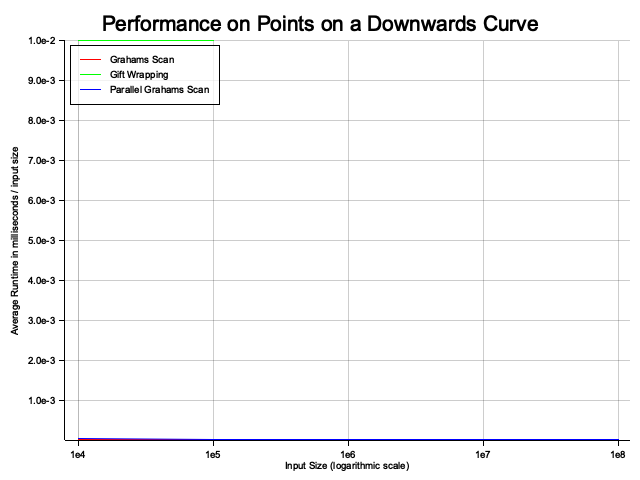
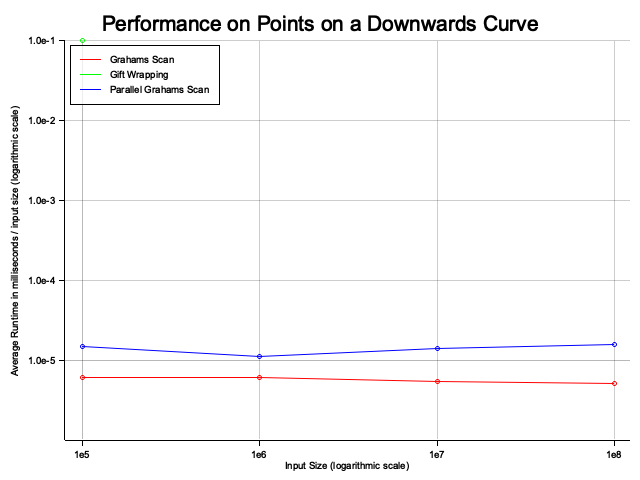
update all plots

diff --git a/project_2/src/main.rs b/project_2/src/main.rs
@@ -2,7 +2,7 @@ use crate::gift_wrapping::gift_wrapping_upper_hull;
 use crate::grahams_scan::grahams_scan;
 use crate::grahams_scan_parallel::grahams_scan_parallel;
 use crate::input_generation::{Curve, InverseCurve, Line, UniformCircle, UniformSquare};
-use crate::plotting::{plot, plot_upper_hull, plot_upper_hull_points};
+use crate::plotting::{plot, plot_log, plot_upper_hull, plot_upper_hull_points};
 use crate::types::{ConvexHullAlgorithm, Experiment, InputFunction, Plot, Point};
 use std::time::Instant;
 
@@ -17,7 +17,7 @@ mod utils;
 fn main() {
     let input_sizes: Vec<i64> = (5..=8).map(|exp| 10i64.pow(exp)).collect();
 
-    //different_inputs_runtime(input_sizes.clone());
+    different_inputs_runtime(input_sizes.clone());
     //upper_hull_size(input_sizes.clone());
     parallel_runtime(input_sizes);
 
@@ -34,7 +34,7 @@ fn different_inputs_runtime(input_sizes: Vec<i64>) {
         (Line::get_input, "Line".to_string()),
     ];
     
-    let y_range = 5e-7..7e-5;
+    let y_range = 5e-7..4e-5;
 
     let grahams_all_inputs = Plot {
         title: "Grahams Scan on different Inputs".to_string(),
@@ -53,7 +53,7 @@ fn different_inputs_runtime(input_sizes: Vec<i64>) {
         input_sizes: input_sizes.clone(),
         algorithm: gift_wrapping_upper_hull,
         args: (None, None),
-        y_range: 5e-7..1e-2,
+        y_range: 1e-6..1e-1,
     };
 
     let grahams_parallel_all_inputs = Plot {
@@ -134,7 +134,7 @@ fn different_inputs_runtime(input_sizes: Vec<i64>) {
         input_sizes: input_sizes.clone(),
         algorithm: grahams_scan_parallel, // not needed
         args: (None, None),
-        y_range: 2e-5..7e-5,
+        y_range: 1e-6..1e-1,
     };
     let uniform_circle_plot = Plot {
         title: "Performance on Uniformly Distributed Points in a Circle".to_string(),
@@ -156,7 +156,7 @@ fn different_inputs_runtime(input_sizes: Vec<i64>) {
         input_sizes: input_sizes.clone(),
         algorithm: grahams_scan_parallel, // not needed
         args: (None, None),
-        y_range: 2.5e-5..1e-3,
+        y_range: 1e-6..1e-1,
     };
     let curve_plot = Plot {
         title: "Performance on Points on a Downwards Curve".to_string(),
@@ -178,7 +178,7 @@ fn different_inputs_runtime(input_sizes: Vec<i64>) {
         input_sizes: input_sizes.clone(),
         algorithm: grahams_scan_parallel, // not needed
         args: (None, None),
-        y_range: 5e-6..1e-2,
+        y_range: 1e-6..1e-1,
     };
     let upwards_curve_plot = Plot {
         title: "Performance on Points on an Upwards Curve".to_string(),
@@ -200,7 +200,7 @@ fn different_inputs_runtime(input_sizes: Vec<i64>) {
         input_sizes: input_sizes.clone(),
         algorithm: grahams_scan_parallel, // not needed
         args: (None, None),
-        y_range: 5e-7..3.5e-5,
+        y_range: 5e-7..2e-5,
     };
     let line_plot = Plot {
         title: "Performance on Points on a Line".to_string(),
@@ -222,18 +222,22 @@ fn different_inputs_runtime(input_sizes: Vec<i64>) {
         input_sizes: input_sizes.clone(),
         algorithm: grahams_scan_parallel, // not needed
         args: (None, None),
-        y_range: 5e-7..3.5e-5,
+        y_range: 5e-7..2e-5,
     };
 
     // input_plots are grouped by solver
-    for solver_plot in input_plots.iter() {
-        plot(solver_plot.clone());
-    }
-
+    //for solver_plot in input_plots.iter() {
+    //    plot(solver_plot.clone());
+    //}
+    plot(input_plots[0].clone());
+    plot_log(input_plots[1].clone());
+    plot(input_plots[2].clone());
+    
+    
     // plot grouped by input generation
-    plot(uniform_square_plot);
-    plot(uniform_circle_plot);
-    plot(curve_plot);
+    plot_log(uniform_square_plot);
+    plot_log(uniform_circle_plot);
+    plot_log(curve_plot);
     plot(upwards_curve_plot);
     plot(line_plot);
 }

diff --git a/project_2/src/plotting.rs b/project_2/src/plotting.rs
@@ -3,6 +3,63 @@ use plotters::coord::types::{RangedCoordi32, RangedCoordi64};
 use plotters::prelude::*;
 use plotters::style::full_palette::ORANGE;
 
+pub fn plot_log(plot: Plot) {
+    let colors = [&RED, &GREEN, &BLUE, &ORANGE, &BLACK];
+
+    let x_first = (plot.input_sizes[0] as f64 * 0.8) as i64;
+    let x_last = (plot.input_sizes[plot.input_sizes.len() - 1] as f64 * 1.2) as i64;
+
+    let root = BitMapBackend::new(plot.path.as_str(), (640, 480)).into_drawing_area();
+    let _ = root.fill(&WHITE);
+    let root = root.margin(10, 10, 10, 10);
+
+    let mut chart = ChartBuilder::on(&root)
+        .caption(plot.title, ("sans-serif", 26).into_font())
+        .x_label_area_size(30)
+        .y_label_area_size(55)
+        .build_cartesian_2d((x_first..x_last).log_scale(), plot.y_range.log_scale())
+        .unwrap();
+
+    chart
+        .configure_mesh()
+        .max_light_lines(0)
+        .y_label_formatter(&|y| format!("{:.1e}", y))
+        .y_desc("Average Runtime in milliseconds / input size (logarithmic scale)")
+        .x_label_formatter(&|x| format!("{:.0e}", x))
+        .x_desc("Input Size (logarithmic scale)")
+        .draw()
+        .unwrap();
+
+    for (i, experiment) in plot.experiments.iter().enumerate() {
+        chart
+            .draw_series(
+                LineSeries::new(
+                    plot.input_sizes
+                        .iter()
+                        .zip(experiment.run_times.clone())
+                        .map(|(x, run_time)| (*x, run_time)),
+                    colors[i],
+                ).point_size(2),
+            )
+            .unwrap()
+            .label(experiment.name.clone())
+            .legend({
+                let color = colors[i];
+                move |(x, y)| PathElement::new(vec![(x, y), (x + 20, y)], color)
+            });
+    }
+
+    chart
+        .configure_series_labels()
+        .position(SeriesLabelPosition::UpperLeft)
+        .border_style(BLACK)
+        .background_style(WHITE.mix(0.75))
+        .draw()
+        .unwrap();
+
+    root.present().unwrap();
+}
+
 pub fn plot(plot: Plot) {
     let colors = [&RED, &GREEN, &BLUE, &ORANGE, &BLACK];
 
@@ -39,7 +96,7 @@ pub fn plot(plot: Plot) {
                         .zip(experiment.run_times.clone())
                         .map(|(x, run_time)| (*x, run_time)),
                     colors[i],
-                ), //.point_size(2),
+                ).point_size(2),
             )
             .unwrap()
             .label(experiment.name.clone())
